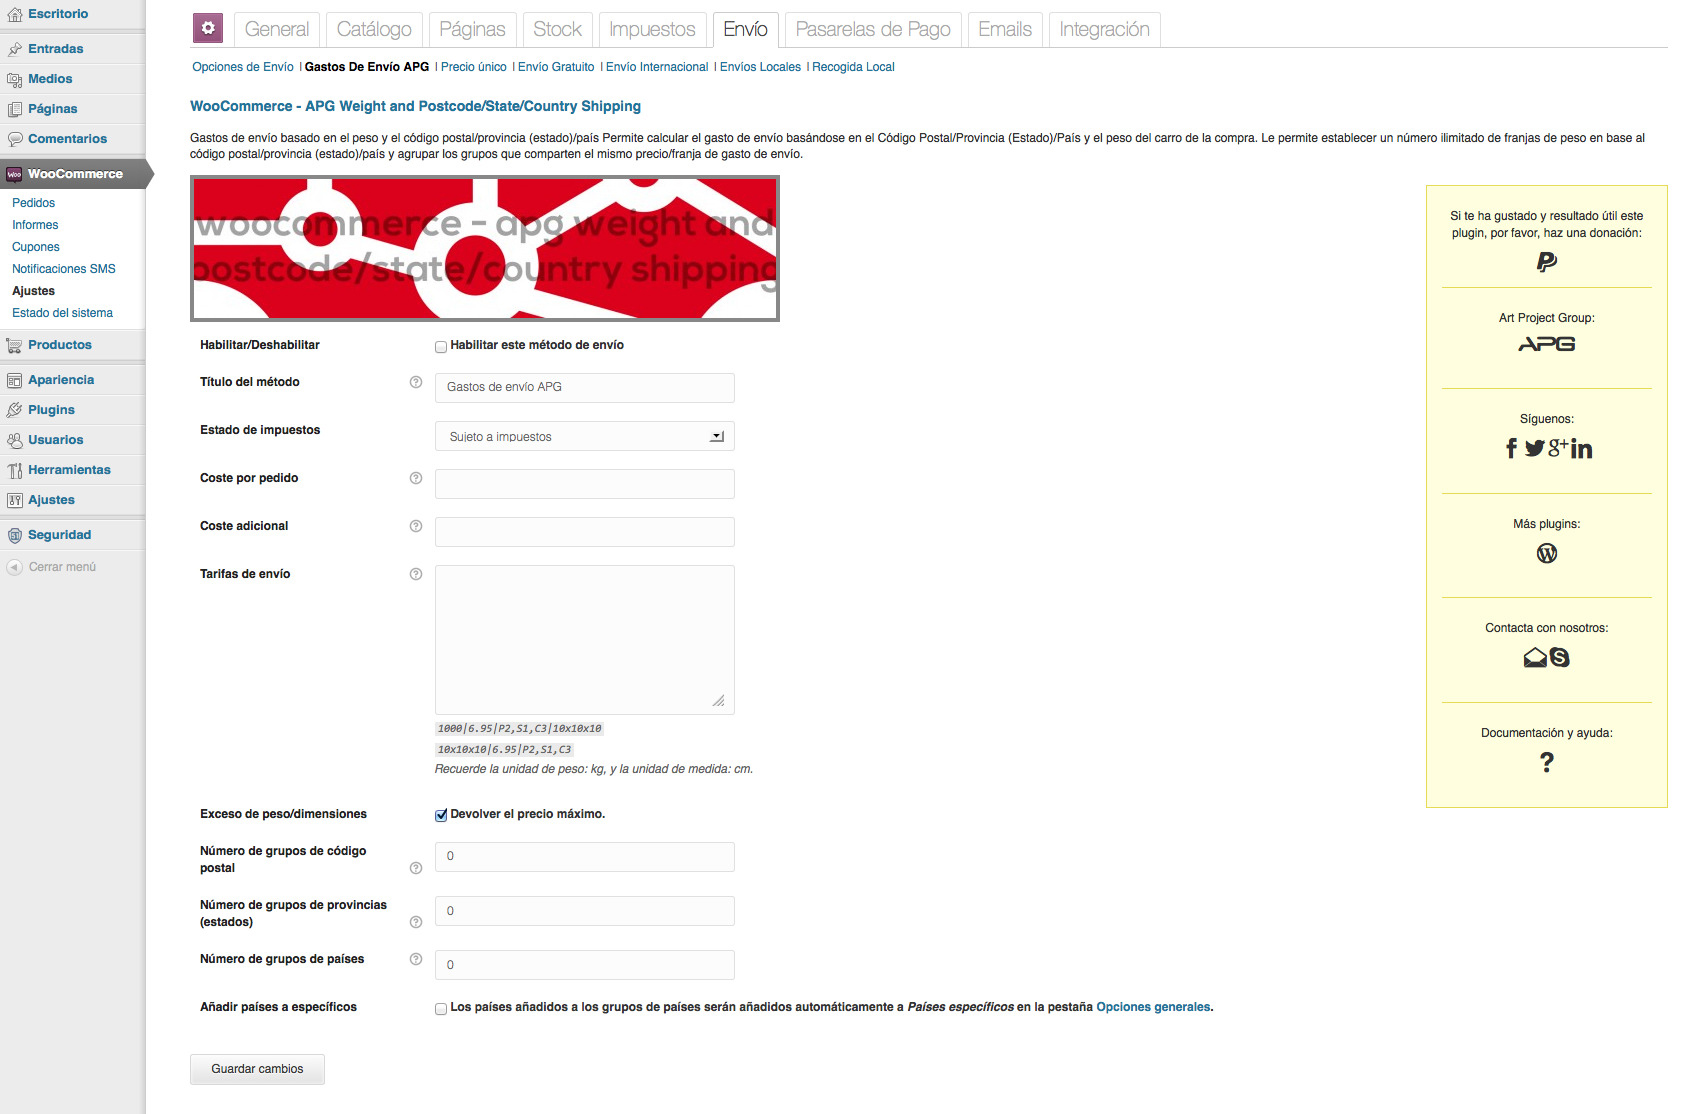
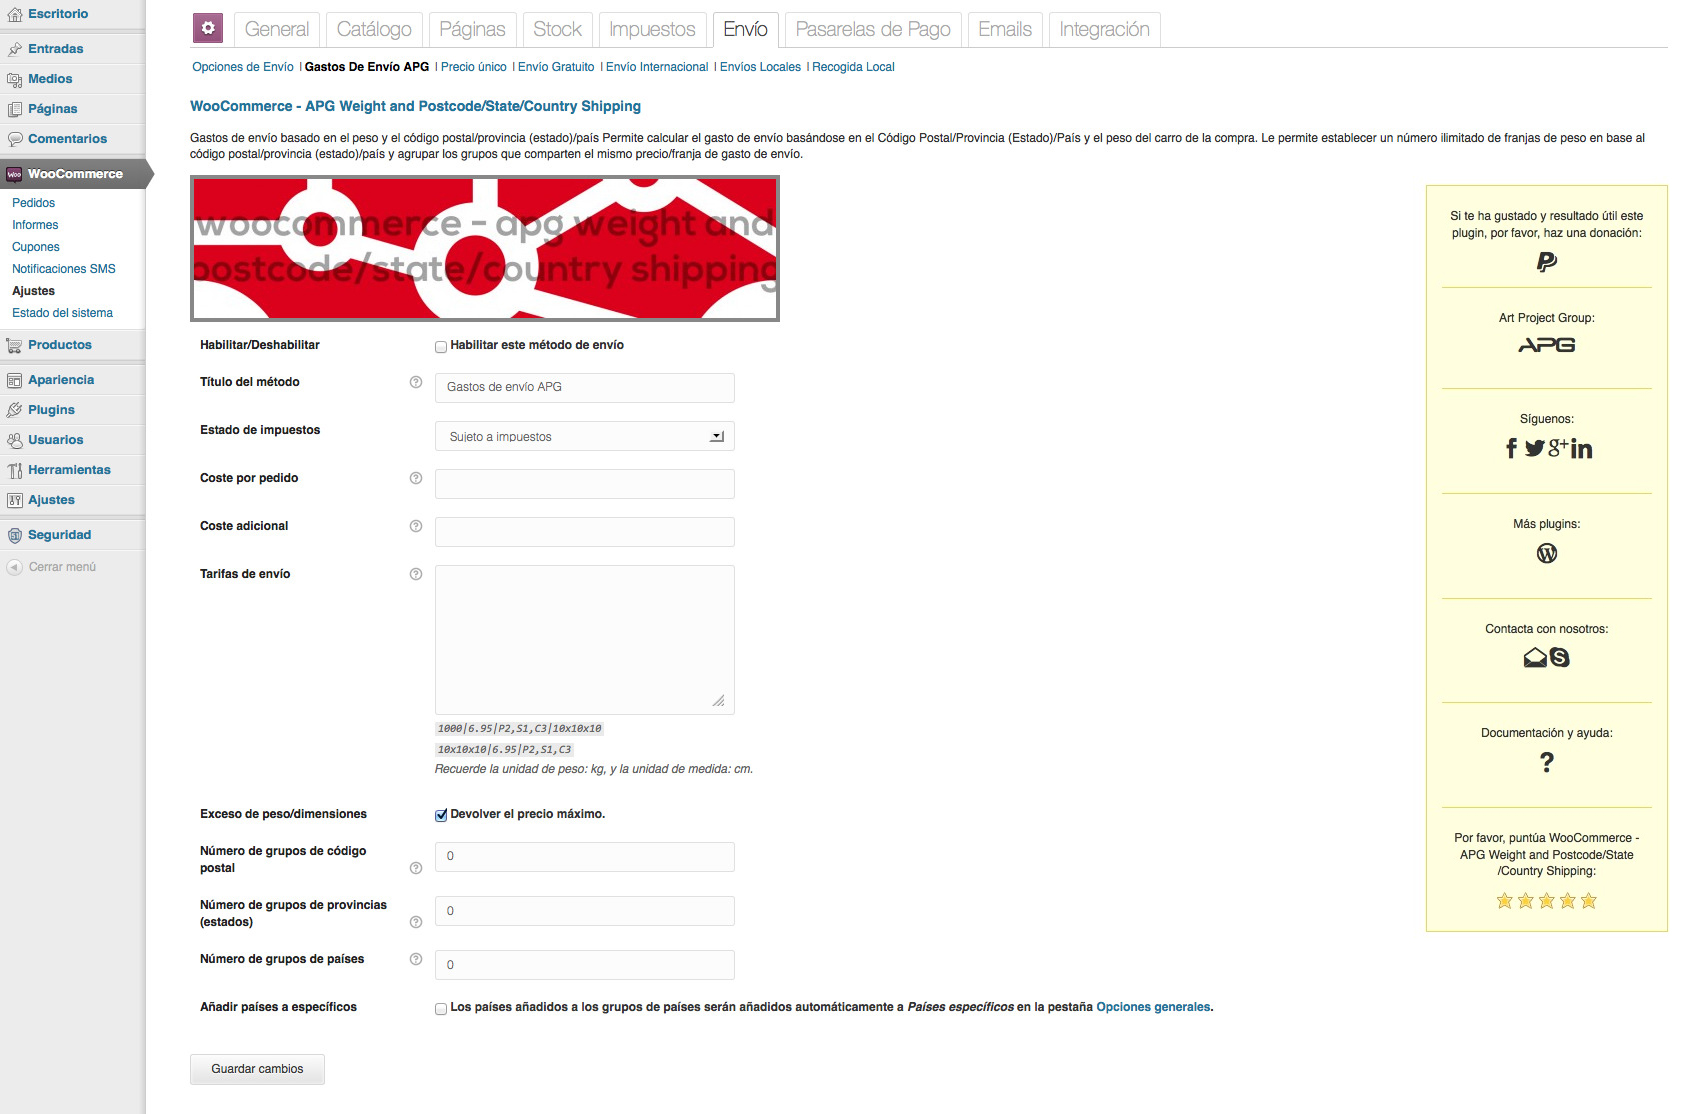
Versión 0.6.4
git-svn-id: https://plugins.svn.wordpress.org/woocommerce-apg-weight-and-postcodestatecountry-shipping/trunk@816027 b8457f37-d9ea-0310-8a92-e5e31aec5664

diff --git a/fonts/stylesheet.css b/fonts/stylesheet.css
@@ -10,9 +10,9 @@
 }
 /* Iconos */
 @font-face {
-	font-family: "Flaticon";
+	font-family: "Icon";
 	src: url("icon.eot");
-	src: url("icon.eot#iefix") format("embedded-opentype"),  url("icon.woff") format("woff"),  url("icon.ttf") format("truetype"),  url("icon.svg") format("svg");
+	src: url("icon.eot#iefix") format("embedded-opentype"), url("icon.woff") format("woff"), url("icon.ttf") format("truetype"), url("icon.svg") format("svg");
 	font-weight: normal;
 	font-style: normal;
 }
@@ -21,7 +21,7 @@
 	font-family: d3_euronismregular;
 }
 [class^="icon-"]:before, [class*=" icon-"]:before, [class^="icon-"]:after, [class*=" icon-"]:after {
-	font-family: Flaticon;
+	font-family: Icon!important;
 }
 [class^="icon-"]:before, [class*=" icon-"]:before, [class^="icon-"]:after, [class*=" icon-"]:after, .artprojectgroup {
 	font-style: normal;
@@ -63,4 +63,31 @@
 }
 .icon-work:before {
 	content: "\e009";
+}
+div.star-holder {
+	display: inline-block;
+	vertical-align: text-bottom;
+}
+div.star-holder .star-rating {
+	overflow: hidden;
+	text-indent: 100%;
+	white-space: nowrap;
+}
+div.star-holder.rate .star-rate {
+	position: absolute;
+}
+div.star-holder.rate:hover .star-rating {
+	display: none;
+}
+div.star-holder .star-rate a {
+	background: none repeat scroll 0 0 rgba(0, 0, 0, 0);
+	float: right;
+	height: 17px;
+	width: 21px;
+}
+div.star-holder .star-rate a:first-child {
+	width: 14px;
+}
+div.star-holder .star-rate a:hover ~ a, div.star-holder .star-rate a:hover {
+	background: url("/wp-admin/images/stars.png?ver=20121108") no-repeat scroll left top rgba(0, 0, 0, 0);
 }

diff --git a/style.css b/style.css
@@ -17,7 +17,7 @@ div.donacion {
 	width: 220px;
 	text-align: center;
 }
-div.donacion div {
+div.donacion > div {
 	padding: 10px;
 	margin: 10px auto 0px;
 	width: 190px;

diff --git a/apg-shipping.php b/apg-shipping.php
@@ -1,7 +1,7 @@
 <?php
 /*
 Plugin Name: WooCommerce - APG Weight and Postcode/State/Country Shipping
-Version: 0.6.3
+Version: 0.6.4
 Plugin URI: http://wordpress.org/plugins/woocommerce-apg-weight-and-postcodestatecountry-shipping/
 Description: Add to WooCommerce the calculation of shipping costs based on the order weight and postcode, province (state) and country of customer's address. Lets you add an unlimited shipping rates. Created from <a href="http://profiles.wordpress.org/andy_p/" target="_blank">Andy_P</a> <a href="http://wordpress.org/plugins/awd-weightcountry-shipping/" target="_blank"><strong>AWD Weight/Country Shipping</strong></a> plugin and the modification of <a href="http://wordpress.org/support/profile/mantish" target="_blank">Mantish</a> publicada en <a href="https://gist.github.com/Mantish/5658280" target="_blank">GitHub</a>.
 Author URI: http://www.artprojectgroup.es/
@@ -21,20 +21,33 @@ License: GPL2
     You should have received a copy of the GNU General Public License along with this program; if not, write to the Free Software Foundation, Inc., 51 Franklin St, Fifth Floor, Boston, MA  02110-1301  USA
 */
 
+//Definimos las variables
+$apg_shipping = array('plugin' => 'WooCommerce - APG Weight and Postcode/State/Country Shipping', 
+						'plugin_uri' => 'woocommerce-apg-weight-and-postcodestatecountry-shipping', 
+						'plugin_url' => 'http://www.artprojectgroup.es/plugins-para-wordpress/woocommerce-apg-weight-and-postcodestatecountry-shipping', 
+						'paypal' => 'https://www.paypal.com/cgi-bin/webscr?cmd=_s-xclick&hosted_button_id=LB54JTPQGW9ZW', 
+						'ajustes' => 'admin.php?page=woocommerce_settings&tab=shipping&section=apg_shipping', 
+						'imagen' => 'http://www.artprojectgroup.es/wp-content/artprojectgroup/woocommerce-apg-weight-and-postcodestatecountry-shipping-582x139.jpg', 
+						'puntuacion' => 'http://wordpress.org/support/view/plugin-reviews/woocommerce-apg-weight-and-postcodestatecountry-shipping');
+
 //Carga el idioma
 load_plugin_textdomain('apg_shipping', null, dirname(plugin_basename(__FILE__)) . '/lang');
 
 //Enlaces adicionales personalizados
 function apg_shipping_enlaces($enlaces, $archivo) {
+	global $apg_shipping;
+	
 	$plugin = plugin_basename(__FILE__);
 
 	if ($archivo == $plugin) 
 	{
-		$enlaces[] = '<a href="https://www.paypal.com/cgi-bin/webscr?cmd=_s-xclick&hosted_button_id=LB54JTPQGW9ZW" target="_blank" title="' . __('Make a donation by ', 'apg_shipping') . 'PayPal"><span class="icon-paypal"></span></a>';
-		$enlaces[] = '<a href="http://www.artprojectgroup.es/plugins-para-wordpress/woocommerce-apg-weight-and-postcodestatecountry-shipping" target="_blank" title="WooCommerce - APG Weight and Postcode/State/Country Shipping"><strong class="artprojectgroup">APG</strong></a>';
+		$plugin = apg_shipping_plugin($apg_shipping['plugin_uri']);
+		$enlaces[] = '<a href="' . $apg_shipping['paypal'] . '" target="_blank" title="' . __('Make a donation by ', 'apg_shipping') . 'PayPal"><span class="icon-paypal"></span></a>';
+		$enlaces[] = '<a href="'. $apg_shipping['plugin_url'] . '" target="_blank" title="' . $apg_shipping['plugin'] . '"><strong class="artprojectgroup">APG</strong></a>';
 		$enlaces[] = '<a href="https://www.facebook.com/artprojectgroup" title="' . __('Follow us on ', 'apg_shipping') . 'Facebook" target="_blank"><span class="icon-facebook6"></span></a> <a href="https://twitter.com/artprojectgroup" title="' . __('Follow us on ', 'apg_shipping') . 'Twitter" target="_blank"><span class="icon-social19"></span></a> <a href="https://plus.google.com/+ArtProjectGroupES" title="' . __('Follow us on ', 'apg_shipping') . 'Google+" target="_blank"><span class="icon-google16"></span></a> <a href="http://es.linkedin.com/in/artprojectgroup" title="' . __('Follow us on ', 'apg_shipping') . 'LinkedIn" target="_blank"><span class="icon-logo"></span></a>';
 		$enlaces[] = '<a href="http://profiles.wordpress.org/artprojectgroup/" title="' . __('More plugins on ', 'apg_shipping') . 'WordPress" target="_blank"><span class="icon-wordpress2"></span></a>';
 		$enlaces[] = '<a href="mailto:info@artprojectgroup.es" title="' . __('Contact with us by ', 'apg_shipping') . 'e-mail"><span class="icon-open21"></span></a> <a href="skype:artprojectgroup" title="' . __('Contact with us by ', 'apg_shipping') . 'Skype"><span class="icon-social6"></span></a>';
+		$enlaces[] = '<div class="star-holder rate"><div style="width:' . esc_attr(str_replace(',', '.', $plugin['rating'])) . 'px;" class="star-rating"></div><div class="star-rate"><a title="' . __('***** Fantastic!', 'apg_shipping') . '" href="' . $apg_shipping['puntuacion'] . '?rate=5#postform" target="_blank"><span></span></a> <a title="' . __('**** Great', 'apg_shipping') . '" href="' . $apg_shipping['puntuacion'] . '?rate=4#postform" target="_blank"><span></span></a> <a title="' . __('*** Good', 'apg_shipping') . '" href="' . $apg_shipping['puntuacion'] . '?rate=3#postform" target="_blank"><span></span></a> <a title="' . __('** Works', 'apg_shipping') . '" href="' . $apg_shipping['puntuacion'] . '?rate=2#postform" target="_blank"><span></span></a> <a title="' . __('* Poor', 'apg_shipping') . '" href="' . $apg_shipping['puntuacion'] . '?rate=1#postform" target="_blank"><span></span></a></div></div>';
 	}
 	
 	return $enlaces;
@@ -43,7 +56,9 @@ add_filter('plugin_row_meta', 'apg_shipping_enlaces', 10, 2);
 
 //Añade el botón de configuración
 function apg_shipping_enlace_de_ajustes($enlaces) { 
-	$enlace_de_ajustes = '<a href="admin.php?page=woocommerce_settings&tab=shipping&section=apg_shipping" title="' . __('Settings of ', 'apg_shipping') . 'WooCommerce - APG Weight and Postcode/State/Country Shipping">' . __('Settings', 'apg_shipping') . '</a>'; 
+	global $apg_shipping;
+
+	$enlace_de_ajustes = '<a href="' . $apg_shipping['ajustes'] . '" title="' . __('Settings of ', 'apg_shipping') . $apg_shipping['plugin'] . '">' . __('Settings', 'apg_shipping') . '</a>'; 
 	array_unshift($enlaces, $enlace_de_ajustes); 
 	
 	return $enlaces; 
@@ -55,8 +70,7 @@ add_filter("plugin_action_links_$plugin", 'apg_shipping_enlace_de_ajustes');
 function apg_shipping_inicio() {
 	if (!class_exists('WC_Shipping_Method')) return;
 
-	class apg_shipping extends WC_Shipping_Method {
-
+	class apg_shipping extends WC_Shipping_Method {				
 		function __construct() {
 			$this->id 				= 'apg_shipping';
 			$this->method_title	= __("APG Shipping", 'apg_shipping');
@@ -588,6 +602,18 @@ function dame_impuestos() {
 	return $tipos_impuestos;
 }
 
+//Obtiene toda la información sobre el plugin
+function apg_shipping_plugin($nombre) {
+	$argumentos = (object) array('slug' => $nombre);
+	$consulta = array('action' => 'plugin_information', 'timeout' => 15, 'request' => serialize($argumentos));
+	$url = 'http://api.wordpress.org/plugins/info/1.0/';
+	$respuesta = wp_remote_post($url, array('body' => $consulta));
+	$plugin = unserialize($respuesta['body']);
+	//echo '<pre>' . print_r( $plugin, true ) . '</pre>';
+	
+	return get_object_vars($plugin);
+}
+
 //Comprueba si hay que mostrar el mensaje de configuración
 function apg_shipping_muestra_mensaje() {
 	wp_register_style( 'apg_shipping_hoja_de_estilo', plugins_url('style.css', __FILE__) ); //Carga la hoja de estilo
@@ -600,6 +626,8 @@ function apg_shipping_muestra_mensaje() {
 add_action( 'admin_init', 'apg_shipping_muestra_mensaje' );
 
 function apg_shipping_actualizacion() {
-    echo '<div class="error fade" id="message"><h3>WooCommerce - APG Weight and Postcode/State/Country Shipping</h3><h4>' . sprintf(__("Please, update your %s. It's very important!", 'apg_shipping'), '<a href="admin.php?page=woocommerce_settings&tab=shipping&section=apg_shipping" title="' . __('Settings', 'apg_shipping') . '">' . __('settings', 'apg_shipping') . '</a>') . '</h4></div>';
+	global $apg_shipping;
+	
+    echo '<div class="error fade" id="message"><h3>' . $apg_shipping['plugin'] . '</h3><h4>' . sprintf(__("Please, update your %s. It's very important!", 'apg_shipping'), '<a href="' . $apg_shipping['ajustes'] . '" title="' . __('Settings', 'apg_shipping') . '">' . __('settings', 'apg_shipping') . '</a>') . '</h4></div>';
 }
 ?>

diff --git a/formulario.php b/formulario.php
@@ -1,42 +1,10 @@
-<h3><a href="http://www.artprojectgroup.es/plugins-para-wordpress/woocommerce-apg-weight-and-postcodestatecountry-shipping" title="Art Project Group">WooCommerce - APG Weight and Postcode/State/Country Shipping</a> </h3>
+<?php global $apg_shipping; ?>
+<h3><a href="<?php echo $apg_shipping['plugin_url']; ?>" title="Art Project Group"><?php echo $apg_shipping['plugin']; ?></a> </h3>
 <p>
   <?php _e('Lets you calculate shipping cost based on Postcode/State/Country and weight of the cart. Lets you set an unlimited weight bands on per postcode/state/country basis and group the groups that that share same delivery cost/bands.', 'apg_shipping'); ?>
 </p>
-<div class="donacion">
-  <p>
-    <?php _e('If you enjoyed and find helpful this plugin, please make a donation:', 'apg_shipping'); ?>
-  </p>
-  <p><a href="https://www.paypal.com/cgi-bin/webscr?cmd=_s-xclick&hosted_button_id=LB54JTPQGW9ZW" target="_blank" title="<?php _e('Make a donation by ', 'apg_shipping'); ?>PayPal"><span class="icon-paypal"></span></a></p>
-  <div>
-    <p>Art Project Group:</p>
-    <p><a href="http://www.artprojectgroup.es" title="Art Project Group" target="_blank"><strong class="artprojectgroup">APG</strong></a></p>
-  </div>
-  <div>
-    <p>
-      <?php _e('Follow us:', 'apg_shipping'); ?>
-    </p>
-    <p><a href="https://www.facebook.com/artprojectgroup" title="<?php _e('Follow us on ', 'apg_shipping'); ?>Facebook" target="_blank"><span class="icon-facebook6"></span></a> <a href="https://twitter.com/artprojectgroup" title="<?php _e('Follow us on ', 'apg_shipping'); ?>Twitter" target="_blank"><span class="icon-social19"></span></a> <a href="https://plus.google.com/+ArtProjectGroupES" title="<?php _e('Follow us on ', 'apg_shipping'); ?>Google+" target="_blank"><span class="icon-google16"></span></a> <a href="http://es.linkedin.com/in/artprojectgroup" title="<?php _e('Follow us on ', 'apg_shipping'); ?>LinkedIn" target="_blank"><span class="icon-logo"></span></a></p>
-  </div>
-  <div>
-    <p>
-      <?php _e('More plugins:', 'apg_shipping'); ?>
-    </p>
-    <p><a href="http://profiles.wordpress.org/artprojectgroup/" title="<?php _e('More plugins on ', 'apg_shipping'); ?>WordPress" target="_blank"><span class="icon-wordpress2"></span></a></p>
-  </div>
-  <div>
-    <p>
-      <?php _e('Contact with us:', 'apg_shipping'); ?>
-    </p>
-    <p><a href="mailto:info@artprojectgroup.es" title="<?php _e('Contact with us by ', 'apg_shipping'); ?>e-mail"><span class="icon-open21"></span></a> <a href="skype:artprojectgroup" title="<?php _e('Contact with us by ', 'apg_shipping'); ?>Skype"><span class="icon-social6"></span></a></p>
-  </div>
-  <div>
-    <p>
-      <?php _e('Documentation and Support:', 'apg_shipping'); ?>
-    </p>
-    <p><a href="http://www.artprojectgroup.es/plugins-para-wordpress/woocommerce-apg-weight-and-postcodestatecountry-shipping" title="WooCommerce - APG Weight and Postcode/State/Country Shipping"><span class="icon-work"></span></a></p>
-  </div>
-</div>
-<div class="cabecera"> <a href="http://www.artprojectgroup.es/plugins-para-wordpress/woocommerce-apg-weight-and-postcodestatecountry-shipping" title="WooCommerce - APG Weight and Postcode/State/Country Shipping"><img src="http://www.artprojectgroup.es/wp-content/artprojectgroup/woocommerce-apg-weight-and-postcodestatecountry-shipping-582x139.jpg" width="582" height="139" /></a> </div>
+<?php include('cuadro-donacion.php'); ?>
+<div class="cabecera"> <a href="<?php echo $apg_shipping['plugin_url']; ?>" title="<?php echo $apg_shipping['plugin']; ?>"><img src="<?php echo $apg_shipping['imagen']; ?>" width="582" height="139" /></a> </div>
 <table class="form-table">
   <?php $this->generate_settings_html(); ?>
 </table>

diff --git a/cuadro-donacion.php b/cuadro-donacion.php
@@ -1,0 +1,42 @@
+<?php $plugin = apg_shipping_plugin($apg_shipping['plugin_uri']); ?>
+<div class="donacion">
+  <p>
+    <?php _e('If you enjoyed and find helpful this plugin, please make a donation:', 'apg_shipping'); ?>
+  </p>
+  <p><a href="<?php echo $apg_shipping['paypal']; ?>" target="_blank" title="<?php _e('Make a donation by ', 'apg_shipping'); ?>PayPal"><span class="icon-paypal"></span></a></p>
+  <div>
+    <p>Art Project Group:</p>
+    <p><a href="http://www.artprojectgroup.es" title="Art Project Group" target="_blank"><strong class="artprojectgroup">APG</strong></a></p>
+  </div>
+  <div>
+    <p>
+      <?php _e('Follow us:', 'apg_shipping'); ?>
+    </p>
+    <p><a href="https://www.facebook.com/artprojectgroup" title="<?php _e('Follow us on ', 'apg_shipping'); ?>Facebook" target="_blank"><span class="icon-facebook6"></span></a> <a href="https://twitter.com/artprojectgroup" title="<?php _e('Follow us on ', 'apg_shipping'); ?>Twitter" target="_blank"><span class="icon-social19"></span></a> <a href="https://plus.google.com/+ArtProjectGroupES" title="<?php _e('Follow us on ', 'apg_shipping'); ?>Google+" target="_blank"><span class="icon-google16"></span></a> <a href="http://es.linkedin.com/in/artprojectgroup" title="<?php _e('Follow us on ', 'apg_shipping'); ?>LinkedIn" target="_blank"><span class="icon-logo"></span></a></p>
+  </div>
+  <div>
+    <p>
+      <?php _e('More plugins:', 'apg_shipping'); ?>
+    </p>
+    <p><a href="http://profiles.wordpress.org/artprojectgroup/" title="<?php _e('More plugins on ', 'apg_shipping'); ?>WordPress" target="_blank"><span class="icon-wordpress2"></span></a></p>
+  </div>
+  <div>
+    <p>
+      <?php _e('Contact with us:', 'apg_shipping'); ?>
+    </p>
+    <p><a href="mailto:info@artprojectgroup.es" title="<?php _e('Contact with us by ', 'apg_shipping'); ?>e-mail"><span class="icon-open21"></span></a> <a href="skype:artprojectgroup" title="<?php _e('Contact with us by ', 'apg_shipping'); ?>Skype"><span class="icon-social6"></span></a></p>
+  </div>
+  <div>
+    <p>
+      <?php _e('Documentation and Support:', 'apg_shipping'); ?>
+    </p>
+    <p><a href="<?php echo $apg_shipping['plugin_url']; ?>" title="<?php echo $apg_shipping['plugin']; ?>"><span class="icon-work"></span></a></p>
+  </div>
+  <div>
+    <p> <?php echo sprintf(__('Please, rate %s:', 'apg_shipping'), $apg_shipping['plugin']); ?> </p>
+    <div class="star-holder rate">
+      <div style="width: <?php echo esc_attr(str_replace(',', '.', $plugin['rating'])); ?>px;" class="star-rating"></div>
+      <div class="star-rate"> <a title="<?php _e('***** Fantastic!', 'apg_shipping'); ?>" href="<?php echo $apg_shipping['puntuacion']; ?>?rate=5#postform"><span></span></a> <a title="<?php _e('**** Great', 'apg_shipping'); ?>" href="<?php echo $apg_shipping['puntuacion']; ?>?rate=4#postform"><span></span></a> <a title="<?php _e('*** Good', 'apg_shipping'); ?>" href="<?php echo $apg_shipping['puntuacion']; ?>?rate=3#postform"><span></span></a> <a title="<?php _e('** Works', 'apg_shipping'); ?>" href="<?php echo $apg_shipping['puntuacion']; ?>?rate=2#postform"><span></span></a> <a title="<?php _e('* Poor', 'apg_shipping'); ?>" href="<?php echo $apg_shipping['puntuacion']; ?>?rate=1#postform"><span></span></a> </div>
+    </div>
+  </div>
+</div>
